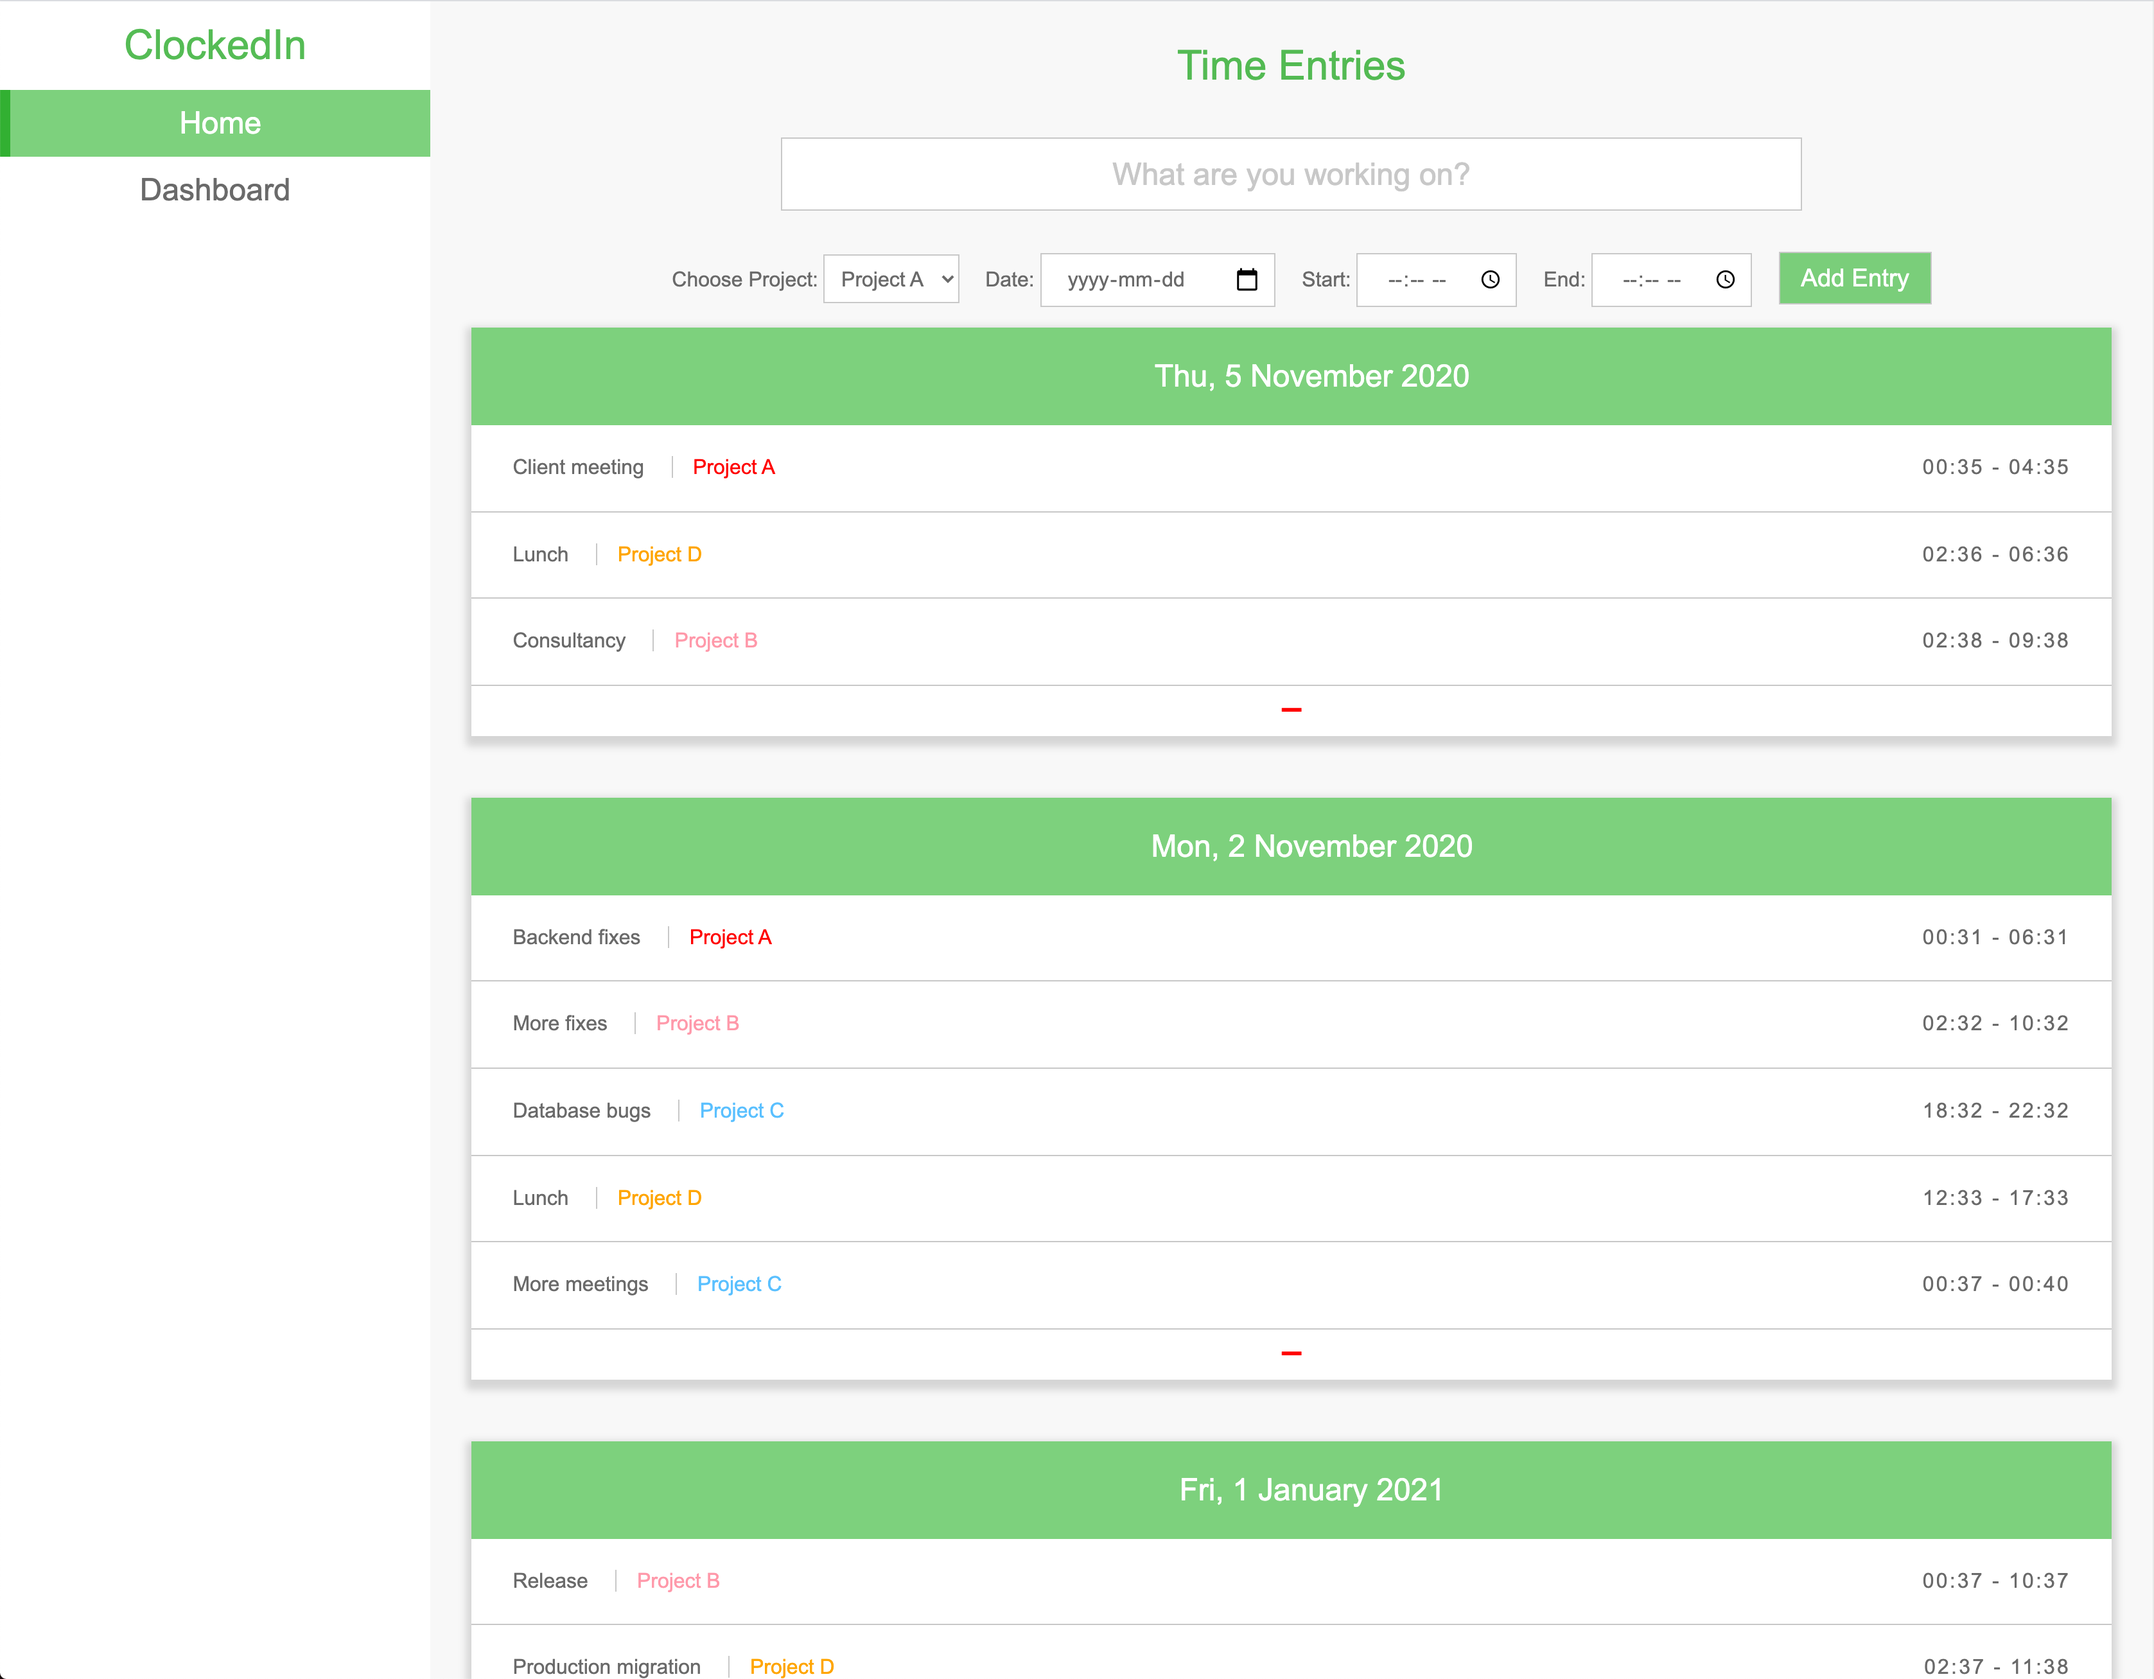
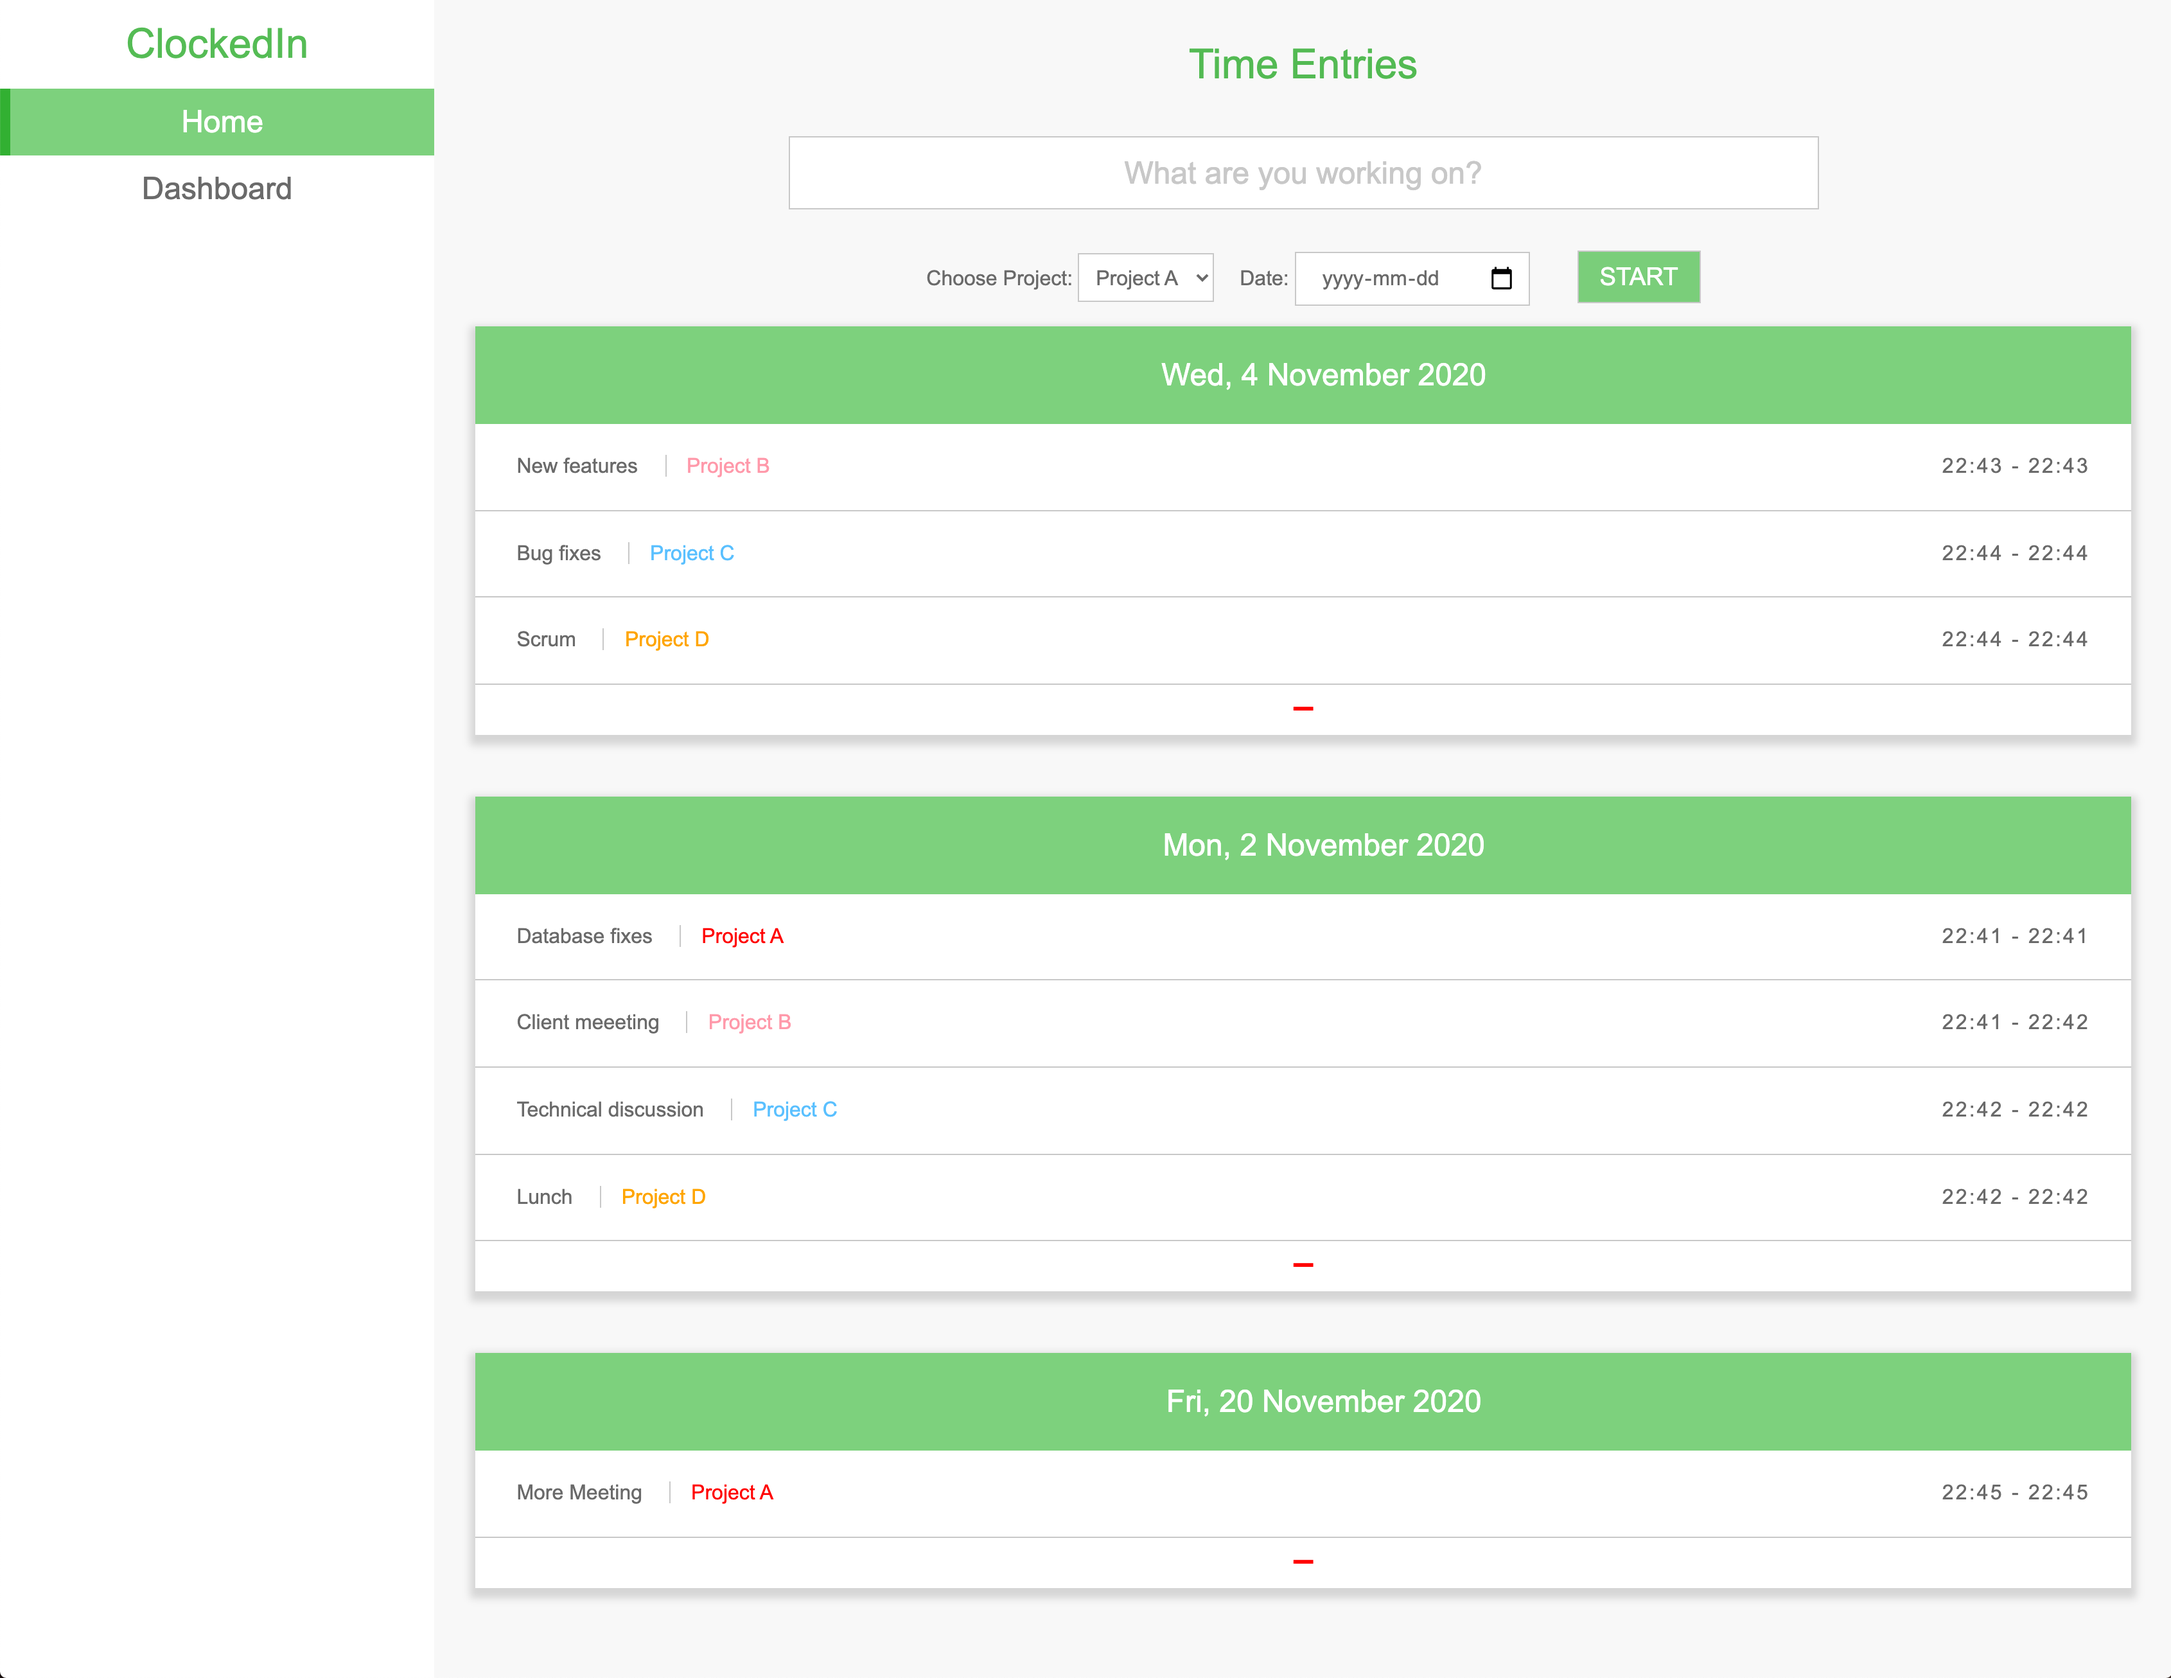
Replaced manual time entry with clock timer feature

diff --git a/src/js/home.js b/src/js/home.js
@@ -1,5 +1,87 @@
 const ul = document.getElementById("entry-list");
 
+let inputValTask = document.getElementById("task-input").value;
+let inputValProject = document.getElementById("project-input").value;
+let inputValDate = document.getElementById("date-input").value;
+let inputValStart = "";
+let inputValEnd = "";
+let sec = 0;
+let min = 0;
+let hour = 0;
+let firstRun = true;
+
+const displayElapsedTime = () => {
+  if (firstRun) {
+    inputValStart = getCurrTimestamp();
+    document.getElementById("start-btn").style.display = "none";
+    document.getElementById("stop-btn").style.display = "inline-block";
+    document.getElementById("elapsed-time").style.display = "inline-block";
+    firstRun = false;
+  }
+  sec++;
+
+  if (sec === 60) {
+    sec = 0;
+    min++;
+  }
+  if (min === 60) {
+    min = 0;
+    hour++;
+  }
+  document.getElementById("elapsed-time").innerHTML = `${
+    hour < 10 ? "0" + hour : hour
+  }:${min < 10 ? "0" + min : min}:${sec < 10 ? "0" + sec : sec}`;
+};
+
+const stop = (timer) => {
+  if (timer) {
+    inputValEnd = getCurrTimestamp();
+    inputValTask = document.getElementById("task-input").value;
+    inputValProject = document.getElementById("project-input").value;
+    inputValDate = document.getElementById("date-input").value;
+
+    if (inputValDate && inputValTask && inputValProject) {
+      clearInterval(timer);
+      firstRun = true;
+      addEntry();
+      sec = 0;
+      min = 0;
+      hour = 0;
+      document.getElementById("start-btn").style.display = "inline-block";
+      document.getElementById("stop-btn").style.display = "none";
+      document.getElementById("elapsed-time").style.display = "none";
+    } else {
+      displayModal();
+    }
+  } else {
+    displayModal();
+  }
+};
+
+const displayModal = () => {
+  const modal = document.getElementById("alert-modal");
+  const span = document.getElementById("modal-close");
+
+  modal.style.display = "block";
+
+  // Close the modal when clicked on X
+  span.onclick = function () {
+    modal.style.display = "none";
+  };
+
+  // Close the modal when user clicks outside the modal
+  window.onclick = function (event) {
+    if (event.target == modal) {
+      modal.style.display = "none";
+    }
+  };
+};
+
+const getCurrTimestamp = () => {
+  let time = new Date();
+  return time.getHours() + ":" + time.getMinutes();
+};
+
 const start = () => {
   // Retrieve initial state of entry list from storage and display it
   Object.entries(localStorage).forEach((entry) => {
@@ -30,57 +112,26 @@ const removeFromStorage = (date) => {
 
 // Add a new entry on click
 const addEntry = () => {
-  let inputValDate = document.getElementById("date-input").value;
-  const inputValTask = document.getElementById("task-input").value;
-  const inputValProject = document.getElementById("project-input").value;
-  const inputValStart = document.getElementById("start-input").value;
-  const inputValEnd = document.getElementById("end-input").value;
+  inputValDate = convertDate(inputValDate);
+  let taskList = [];
+  let item = localStorage.getItem(inputValDate);
 
-  if (
-    inputValDate &&
-    inputValTask &&
-    inputValProject &&
-    inputValStart &&
-    inputValEnd
-  ) {
-    inputValDate = convertDate(inputValDate);
-    let taskList = [];
-    let item = localStorage.getItem(inputValDate);
-
-    // This date entry already exists so get the curr taskList
-    if (item) {
-      item = JSON.parse(item);
-      taskList = item.taskList;
-    }
-
-    taskList.push({
-      task: inputValTask,
-      project: inputValProject,
-      start: inputValStart,
-      end: inputValEnd,
-    });
-
-    populateList(inputValDate, taskList, false);
-    addToStorage(inputValDate, taskList);
-    resetFields();
-  } else {
-    const modal = document.getElementById("alert-modal");
-    const span = document.getElementById("modal-close");
-
-    modal.style.display = "block";
-
-    // Close the modal when clicked on X
-    span.onclick = function () {
-      modal.style.display = "none";
-    };
-
-    // Close the modal when user clicks outside the modal
-    window.onclick = function (event) {
-      if (event.target == modal) {
-        modal.style.display = "none";
-      }
-    };
+  // This date entry already exists so get the curr taskList
+  if (item) {
+    item = JSON.parse(item);
+    taskList = item.taskList;
   }
+
+  taskList.push({
+    task: inputValTask,
+    project: inputValProject,
+    start: inputValStart,
+    end: inputValEnd,
+  });
+
+  populateList(inputValDate, taskList, false);
+  addToStorage(inputValDate, taskList);
+  resetFields();
 };
 
 // Remove an entry on click
@@ -123,8 +174,8 @@ const resetFields = () => {
   document.getElementById("date-input").value = "";
   document.getElementById("task-input").value = "";
   document.getElementById("project-input").value = "";
-  document.getElementById("start-input").value = "";
-  document.getElementById("end-input").value = "";
+  inputValStart = "";
+  inputValEnd = "";
 };
 
 const convertDate = (date) => {

diff --git a/src/styles/style.css b/src/styles/style.css
@@ -89,6 +89,12 @@ label {
   color: var(--grey-dark);
 }
 
+#elapsed-time {
+  padding-left: 1rem;
+  color: red;
+  font-size: 1.2rem;
+}
+
 #task-input {
   display: block;
   font-size: 1.5rem;
@@ -128,29 +134,13 @@ label {
   cursor: pointer;
 }
 
-#start-input {
-  margin: 0 auto;
-  text-align: center;
-  font-size: 1rem;
-  padding: 0.5rem;
-  border: 0.1rem solid var(--grey-light);
-  color: var(--grey-dark);
-  outline: none;
-  cursor: pointer;
+#stop-btn {
+  display: none;
+  background-color: #bd0000;
 }
 
-#end-input {
-  margin: 0 auto;
-  text-align: center;
-  font-size: 1rem;
-  padding: 0.5rem;
-  border: 0.1rem solid var(--grey-light);
-  color: var(--grey-dark);
-  outline: none;
-  cursor: pointer;
-}
-
-.add-entry-btn {
+.timer-btn {
+  text-transform: uppercase;
   margin: 0 auto;
   padding-top: 0.5rem;
   padding-right: 1rem;
@@ -280,7 +270,8 @@ label {
     padding-bottom: 0.5rem;
   }
 
-  label {
+  label,
+  #elapsed-time {
     font-size: 0.9rem;
   }
 
@@ -308,23 +299,7 @@ label {
     width: 15rem;
   }
 
-  #start-input {
-    display: block;
-    margin-bottom: 1rem;
-    margin-top: 0.5rem;
-    font-size: 0.9rem;
-    width: 15rem;
-  }
-
-  #end-input {
-    display: block;
-    margin-bottom: 1rem;
-    margin-top: 0.5rem;
-    font-size: 0.9rem;
-    width: 15rem;
-  }
-
-  .add-entry-btn {
+  .timer-btn {
     font-size: 0.9rem;
     margin-top: 0.5rem;
   }

diff --git a/src/index.html b/src/index.html
@@ -35,20 +35,26 @@
       <label>Date:</label>
       <input type="date" id="date-input" placeholder="Date" />
 
-      <label>Start:</label>
-      <input type="time" id="start-input" />
-
-      <label>End:</label>
-      <input type="time" id="end-input" />
-
-      <button onclick="addEntry()" class="add-entry-btn">Add Entry</button>
-
       <div id="alert-modal" class="modal">
         <div class="modal-content">
           <span id="modal-close" class="close">&times;</span>
           <p>Please fill out all input fields.</p>
         </div>
       </div>
+
+      <span id="elapsed-time"></span>
+
+      <button
+        id="start-btn"
+        class="timer-btn"
+        onClick="timer = setInterval(displayElapsedTime, 1000)"
+      >
+        Start
+      </button>
+
+      <button id="stop-btn" class="timer-btn" onClick="stop(timer)">
+        Stop
+      </button>
 
       <ul id="entry-list"></ul>
     </div>

diff --git a/README.md b/README.md
@@ -1,18 +1,21 @@
 # ClockedIn
 
-_Keep track of how long you spend on tasks for different projects by adding and removing time entries for specific dates._
+_Keep track of how long you spend on tasks for different projects for specific dates._
 
 <img src="./src/images/screenshot.png" width="800"/>
 
 ## Time Tracking
 
-- Pick a project, date and time and add an entry
+- Pick a project, date and start timer
+- Stop timer to add the new entry
 - Remove an entry using the - button at the bottom
 
 ## Reporting
 
 - Use the dashboard to visualize different reporting breakdowns
 - Visualize the time breakdowns for each project on each day and also the total hours spent
+
+      Note: The charts display hours. If your entries are only a few minutes they may look empty.
 
 ## Setup & Running
 
